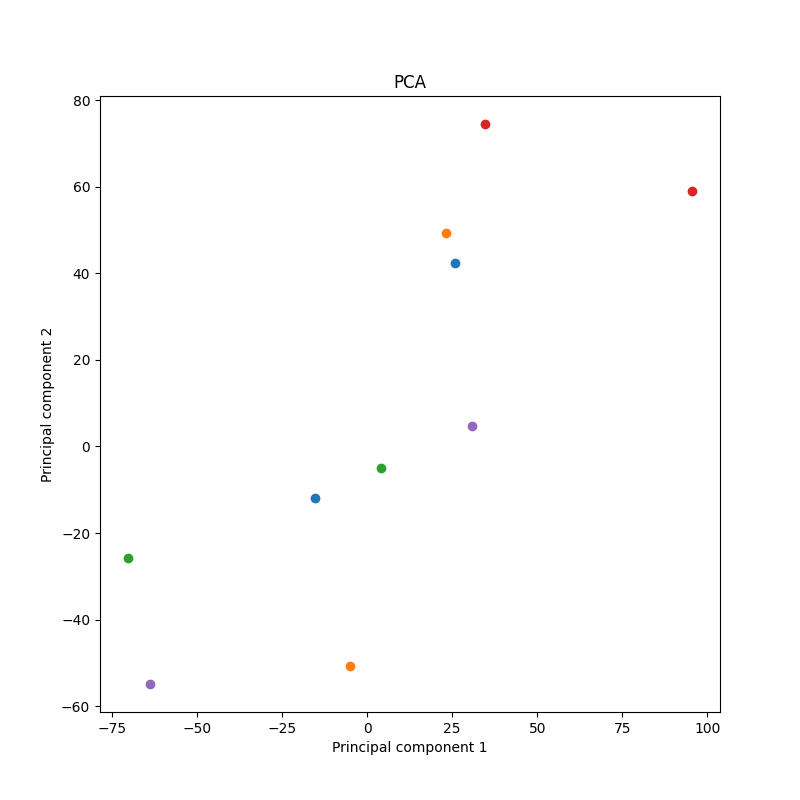
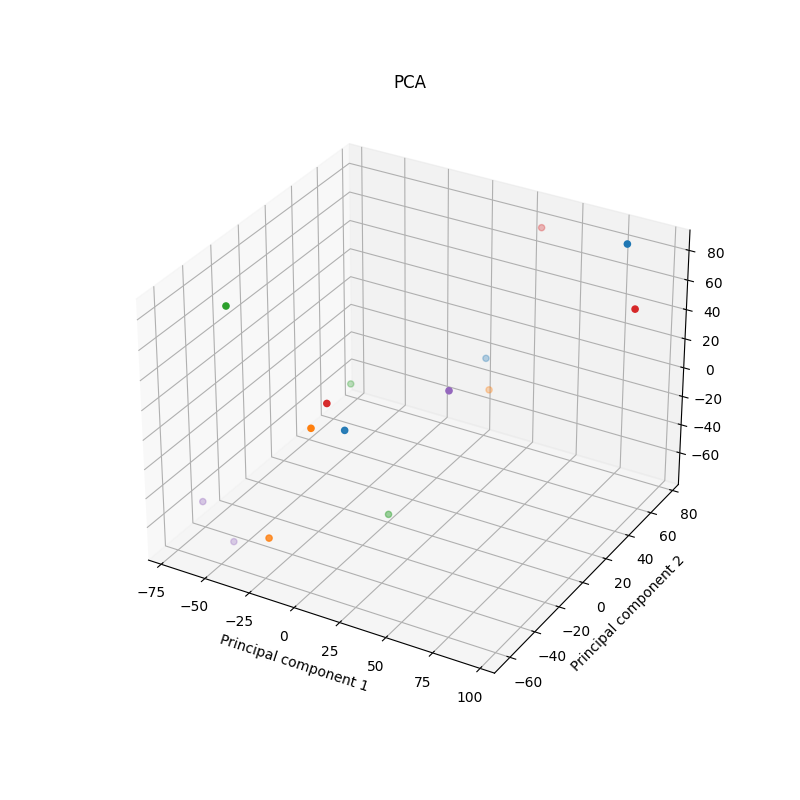
Started on knn pipeline.

diff --git a/Gene Data Pipeline/genes_knn.py b/Gene Data Pipeline/genes_knn.py
@@ -1,0 +1,221 @@
+import os
+from random import sample
+import numpy as np
+from numpy import genfromtxt
+from os import path
+from sklearn.decomposition import PCA
+import matplotlib.pyplot as plt
+from sklearn.linear_model import LogisticRegression
+from sklearn import metrics
+from sklearn.neighbors import KNeighborsClassifier
+
+# File locations
+dataFileName = './Data/Genes/data.csv'
+labelsFileName = './Data/Genes/labels.csv'
+
+# Storage of data to speed up debugging
+labelsFile = './PreProcessedData/labels.npy'
+rawDataFile = './PreProcessedData/rawData.npy'
+rawLabelsFile = './PreProcessedData/rawLabels.npy'
+preProcessedDataFile = './PreProcessedData/preProcessedData.npy'
+preProcessedLabelsFile = './PreProcessedData/preProcessedLabels.npy'
+
+reProcessRawData = False
+reProcessPreprocessedData = False
+
+class Pipeline:
+    def __init__(self):
+        # The purpose of this function is to speed up debugging by not having to read the data set each run
+        if (path.exists(rawDataFile)==False or path.exists(rawLabelsFile)==False or reProcessRawData): 
+            self.rawData = genfromtxt(dataFileName, skip_header=True, delimiter=',')[:,1:] # shape is 802x20532 
+            self.rawLabels = np.genfromtxt(labelsFileName, skip_header=True, delimiter=',',dtype=str)[:,1:] # shape is 802x2
+            np.save(rawDataFile, self.rawData)
+            np.save(rawLabelsFile, self.rawLabels)
+        else:
+            self.rawData = np.load(rawDataFile)
+            self.rawLabels = np.load(rawLabelsFile)
+            
+    def preProcess(self):
+        if (path.exists(labelsFile)==False or path.exists(preProcessedDataFile)==False or path.exists(preProcessedLabelsFile)==False or reProcessPreprocessedData):
+            # Note that preprocessing the data in this stage affects the test data later on as well. 
+            self.preProcessedData = self.rawData - np.mean(self.rawData, axis=0) 
+            self.preProcessedData /= np.std(self.preProcessedData, axis=0)
+            # when a column is zero, dividing by std is /0, which is not a number (nan). Replace them by 0.0
+            self.preProcessedData[np.isnan(self.preProcessedData)] = 0.0
+
+            # Process the labels and encode them
+            self.labelsDict =[]
+            self.preProcessedLabels = []
+            for label in self.rawLabels:
+                labelValue = label[0]
+                if labelValue in self.labelsDict:
+                    encodedLabel = self.labelsDict.index(labelValue)
+                    self.preProcessedLabels.append(encodedLabel)
+                else:
+                    self.preProcessedLabels.append(len(self.labelsDict))
+                    self.labelsDict.append(labelValue)  
+            self.labelsDict = np.array(self.labelsDict, dtype=str)
+            self.preProcessedLabels = np.array(self.preProcessedLabels)
+            
+            # Save pre processed data, labels and the label encodings
+            np.save(preProcessedDataFile, self.preProcessedData)
+            np.save(preProcessedLabelsFile, self.preProcessedLabels)
+            np.save(labelsFile, self.labelsDict)
+        else:
+            self.preProcessedData = np.load(preProcessedDataFile)
+            self.preProcessedLabels = np.load(preProcessedLabelsFile)
+            self.labelsDict= np.load(labelsFile, allow_pickle=True)
+
+    def exploreData(self):
+        # Exploration of the data
+
+        # count number of samples per class
+        samplesPerClass = [0]*len(self.labelsDict)
+        for label in self.preProcessedLabels:
+            samplesPerClass[label] +=1
+        leastItems = np.min(samplesPerClass)
+
+        self.classWeights={}
+        for index, i in enumerate(samplesPerClass):
+            weight = leastItems/i
+            self.classWeights[index]=weight
+        
+        print("The data set has "+ str(len(self.preProcessedData))+ " samples divided over " + str(len(self.labelsDict)))
+        print("For labels " + str(self.labelsDict) + ",the number of classes are: " + str(samplesPerClass))
+        print("Number of features per sample: "+ str(self.preProcessedData.shape[1]))
+        
+        zeroColumns = 0
+        for column in self.rawData.T:
+            if len(column) == np.count_nonzero(column==0.0):
+                zeroColumns +=1
+        print("However, of those features, "+ str(zeroColumns)+ " features are zero for each sample")
+
+
+    def splitData(self):
+        testSetFactor = 0.1
+        # Shuffle the data set using a seed
+        p = np.random.RandomState(0).permutation(len(self.preProcessedData))
+        self.dataX = self.preProcessedData[p]
+        self.dataY = self.preProcessedLabels[p]
+        testSetCount = round(len(self.dataX)*testSetFactor)
+        self.trainX = self.dataX[0:len(self.dataX)-testSetCount]
+        self.trainY = self.dataY[0:len(self.dataY)-testSetCount]
+        self.testX = self.dataX[len(self.dataX)-testSetCount:len(self.dataX)]
+        self.testY = self.dataY[len(self.dataY)-testSetCount:len(self.dataY)]
+
+
+    def dimensionReduction(self, data, labels, numberOfComponents):
+        pca = PCA(numberOfComponents)
+        reducedDimensionsData = pca.fit_transform(data)
+        
+        if (numberOfComponents <= 3):
+            fig = plt.figure(figsize = (8,8))
+            if numberOfComponents == 3:
+                ax = fig.add_subplot(projection='3d')
+            else:
+                ax = fig.add_subplot()
+                
+            for index, label in enumerate(self.labelsDict):
+                indicesOfClass = labels == index
+                points = reducedDimensionsData[indicesOfClass] 
+                
+                if numberOfComponents == 1:
+                    ax.hist(points, alpha=0.5)
+                elif numberOfComponents == 2:
+                    ax.scatter(points[0],points[1])
+                else:
+                    ax.scatter(points[0],points[1],points[2])
+            plt.xlabel("Principal component 1")
+            plt.ylabel("Principal component 2")
+            plt.title("PCA")
+            plt.savefig(f"Figures{os.sep}PCA")
+        return reducedDimensionsData
+    
+    def validation(self, data, labels):
+        model = Model(5, 16)
+        # TODO: for training cost sensitive error function becuase number of samples per class
+        
+        accuracies = []
+        for fold in range(len(labels)):
+            if fold % 100 == 0:
+                print("Fold " + str(fold+1))
+            trainX = np.delete(data,fold,axis=0)
+            trainY = np.delete(labels,fold,axis=0)
+            valX = data[[fold]]
+            valY = labels[[fold]]
+            
+            # Train and validate the model
+            model.train(trainX, trainY)
+            accuracies.append(model.test(valX, valY))
+
+        accuracy = np.mean(accuracies)
+        print("Done, average accuracy is: " + str(round(accuracy,3))+"%")
+        return accuracy
+
+    # def validation(self, data, labels, kFolds):
+    #     model = Model()
+    #     # TODO: for training cost sensitive error function becuase number of samples per class
+    #     kFolds = 800
+    #     foldSize = 1# round(len(data)/kFolds)
+    #     accuracies = []
+    #     for fold in range(kFolds):
+    #         print("Fold " + str(fold+1))
+    #         # Split the data in training and validation data
+    #         valSetIdx = np.arange(fold*foldSize,(fold+1)*foldSize, 1, int)
+    #         trainX = np.delete(data, valSetIdx,axis=0)
+    #         trainY = np.delete(labels, valSetIdx,axis=0)
+    #         valX = data[valSetIdx]
+    #         valY = labels[valSetIdx]
+            
+    #         # Train and validate the model
+    #         model.train(trainX, trainY)
+    #         accuracies.append(model.test(valX, valY))
+
+    #     accuracy = np.mean(accuracies)
+    #     print("Done, average accuracy is: " + str(round(accuracy,3))+"%")
+    #     return accuracy
+        
+
+class Model:
+    def __init__(self, k, seed):
+        self.knn_model = KNeighborsClassifier(n_neighbors=k)
+
+    def train(self, trainX, trainY):
+        self.knn_model.fit(trainX, trainY)
+
+    def test(self, testX, testY):
+        predictY = self.knn_model.predict(testX)
+        #cnf_matrix = metrics.confusion_matrix(testY, predictY)   
+        #print(cnf_matrix)
+        accuracy = testY==predictY
+        # correct = 0
+        # for test, predict in zip(testY, predictY):
+        #     if (test==predict):
+        #         correct +=1
+        # accuracy = correct/len(testY)
+        return accuracy
+
+
+     
+if __name__=="__main__":
+    pipeline = Pipeline()
+    pipeline.preProcess()
+    pipeline.exploreData()
+
+
+    pipeline.splitData()
+    
+    maxNumberOfDimensions = 15
+    accuracies = []
+    for dimension in range(1,maxNumberOfDimensions+1):
+        print("Grid search "+ str(dimension))
+        dataReduced = pipeline.dimensionReduction(pipeline.dataX, pipeline.dataY, dimension)
+        accuracies.append(pipeline.validation(dataReduced, pipeline.dataY))#, kFolds=10))
+
+    fig = plt.figure(figsize = (8,8))
+    plt.plot(range(1,len(accuracies)+1), accuracies)
+    
+    plt.xlabel("Dimensions")
+    plt.ylabel("Accuracy")
+    plt.title("Accuracies with different dimensions")
+    plt.savefig(f"Figures{os.sep}GridSearch")
